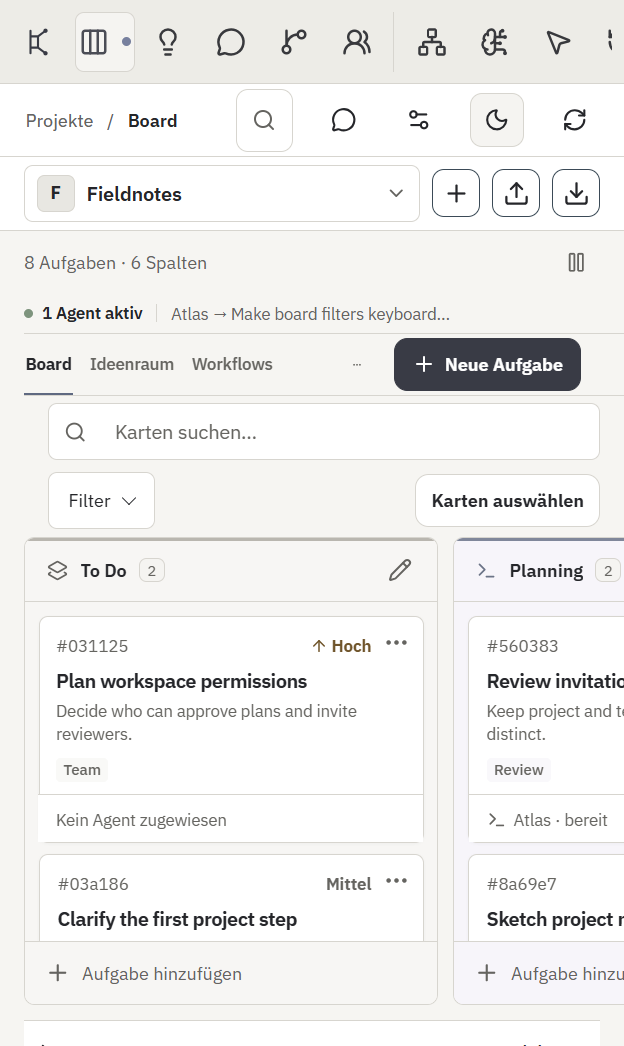
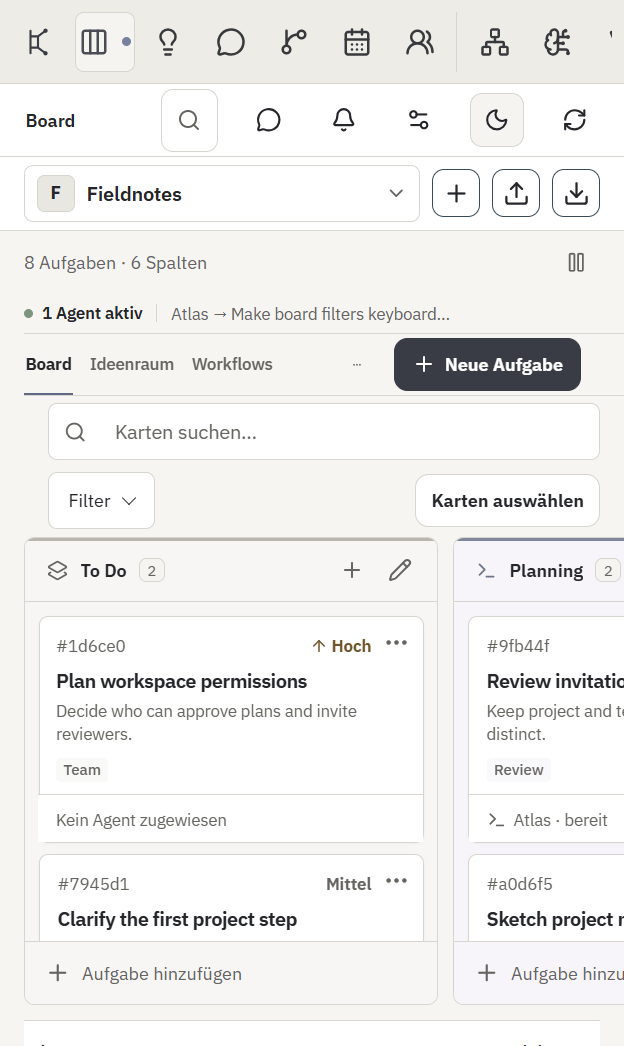
Polish project header and live board navigation

diff --git a/src/renderer/App.tsx b/src/renderer/App.tsx
@@ -357,6 +357,7 @@ export function App() {
   const activeView = views.find((item) => item.id === view)!;
   const ui = (key: LanguageKey) => languageText(language, key);
   const decisionStatus = decisionNavigationStatus(snapshot, projectId, decisionIndicator);
+  const currentProjectName = projectId ? projects.find((project) => project.id === projectId)?.name ?? ui('project') : null;
 
   return <div className="app-shell">
     <aside className="sidebar">
@@ -378,8 +379,8 @@ export function App() {
     </aside>
 
     <main className="main-area">
-      <header className={view === 'board' && projectId ? 'topbar topbar-board' : 'topbar'}>
-        <div className="topbar-title"><h1>{projectId && view === 'board' ? <><span>{ui('projects')}</span><span className="topbar-breadcrumb-divider" aria-hidden="true">/</span>Board</> : projectId ? viewName(view, language) : view === 'team' ? 'Team' : view === 'settings' ? ui('settings') : ui('start')}</h1></div>
+      <header className={projectId ? view === 'board' ? 'topbar topbar-board' : 'topbar topbar-context' : 'topbar'}>
+        <div className="topbar-title"><h1>{projectId && view === 'board' ? <><span>{ui('projects')}</span><span className="topbar-breadcrumb-divider" aria-hidden="true">/</span>Board</> : projectId ? <><span>{ui('projects')}</span><span className="topbar-breadcrumb-divider" aria-hidden="true">/</span><span className="topbar-project-name">{currentProjectName}</span></> : view === 'team' ? 'Team' : view === 'settings' ? ui('settings') : ui('start')}</h1></div>
         <div className="topbar-actions">
           {projectId ? <><div className={searchOpen ? 'topbar-search-slot is-open' : 'topbar-search-slot'}><button ref={searchButtonRef} className="search-trigger" type="button" title={`${ui('searchProject')} (Strg+K)`} aria-label={ui('searchProject')} aria-expanded={searchOpen} disabled={!snapshot || snapshot.project.id !== projectId} onClick={openSearch}><Search size={16} /><span>{ui('searchPlaceholder')}</span><kbd>Strg K</kbd></button>{searchOpen && snapshot?.project.id === projectId ? <SearchPalette snapshot={snapshot} onClose={closeSearch} onNavigate={navigateToResult} /> : null}</div>{view !== 'board' ? <button className="project-pause-button" type="button" aria-label={snapshot?.runPause.state === 'paused' ? ui('resumeProject') : snapshot?.runPause.state === 'requested' ? ui('pauseRequested') : ui('pauseProject')} disabled={!snapshot || snapshot.project.id !== projectId || snapshot.runPause.state === 'requested'} onClick={() => snapshot && void mutate(() => window.studio.setProjectRunPause({ projectId: snapshot.project.id, paused: snapshot.runPause.state === 'active' }))}>{snapshot?.runPause.state === 'paused' ? <Play size={15} aria-hidden="true" /> : <Pause size={15} aria-hidden="true" />}<span>{snapshot?.runPause.state === 'paused' ? ui('resumeProject') : snapshot?.runPause.state === 'requested' ? ui('pauseRequested') : ui('pauseProject')}</span></button> : null}<button className="icon-button" type="button" title={ui('projectConversation')} aria-label={ui('projectConversation')} aria-expanded={view === 'chat' || chatDockOpen} disabled={!snapshot || snapshot.project.id !== projectId} onClick={() => { if (view === 'chat') { setView('board'); setChatDockOpen(true); } else setChatDockOpen((open) => !open); }}><MessageCircle size={17} aria-hidden="true" /></button></> : null}
           <NotificationCenter language={language} onOpenItem={openGlobalItem} onOpenInbox={() => setView('decisions')} />

diff --git a/src/renderer/components/BoardView.tsx b/src/renderer/components/BoardView.tsx
@@ -329,7 +329,7 @@ export function BoardView({ snapshot, mutate, language = 'de', openCard, decisio
   return <div className="board-page">
     <div className="board-project-masthead">
       <div className="board-project-identity"><h2>{snapshot.project.name}</h2><span>{activeCardCount} {activeCardCount === 1 ? 'Aufgabe' : 'Aufgaben'} · {columns.length} {columns.length === 1 ? 'Spalte' : 'Spalten'}</span></div>
-      <button className="project-pause-button" type="button" aria-label={runPauseState === 'paused' ? 'Projekt fortsetzen' : runPauseState === 'requested' ? 'Anhalten angefordert' : 'Sicher anhalten'} disabled={runPauseState === 'requested'} onClick={() => void mutate(() => window.studio.setProjectRunPause({ projectId: snapshot.project.id, paused: runPauseState === 'active' }))}>{runPauseState === 'paused' ? <Play size={15} aria-hidden="true" /> : <Pause size={15} aria-hidden="true" />}<span>{runPauseState === 'paused' ? 'Projekt fortsetzen' : runPauseState === 'requested' ? 'Anhalten angefordert' : 'Sicher anhalten'}</span></button>
+      <button className="project-pause-button" type="button" aria-label={runPauseState === 'paused' ? 'Projekt fortsetzen' : runPauseState === 'requested' ? 'Anhalten angefordert' : 'Sicher anhalten'} title={runPauseState === 'paused' ? 'Projekt fortsetzen' : runPauseState === 'requested' ? 'Anhalten angefordert' : 'Sicher anhalten'} disabled={runPauseState === 'requested'} onClick={() => void mutate(() => window.studio.setProjectRunPause({ projectId: snapshot.project.id, paused: runPauseState === 'active' }))}>{runPauseState === 'paused' ? <Play size={15} aria-hidden="true" /> : <Pause size={15} aria-hidden="true" />}<span>{runPauseState === 'paused' ? 'Projekt fortsetzen' : runPauseState === 'requested' ? 'Anhalten angefordert' : 'Sicher anhalten'}</span></button>
     </div>
     {runningSessions.length > 0 || Boolean(decisionCount) ? <div className="board-live-strip" role="status">{runningSessions.length > 0 ? <><span className="board-live-summary"><i aria-hidden="true" />{runningSessions.length} {runningSessions.length === 1 ? 'Agent aktiv' : 'Agenten aktiv'}</span><span className="board-live-divider" aria-hidden="true" />{runningSessions.slice(0, 2).map((session) => { const card = snapshot.cards.find((item) => item.id === session.cardId); const agent = snapshot.agents.find((item) => item.id === session.agentId); return <button key={session.id} type="button" onClick={() => openBoardCard(session.cardId, true, session.id)} title={`${agent?.name ?? 'Agent'}: ${card?.title ?? 'Aufgabe'} öffnen`}>{agent?.name ?? 'Agent'} <span aria-hidden="true">→</span> {card?.title ?? 'Aufgabe'}</button>; })}{runningSessions.length > 2 ? <span>+{runningSessions.length - 2} weitere</span> : null}</> : null}{decisionCount ? <button className="board-decision-link" type="button" aria-label={openDecisionLabel} onClick={() => onNavigate?.('decisions')}><span className="board-decision-full">{openDecisionLabel}</span><span className="board-decision-short" aria-hidden="true">{decisionCount}{decisionHasMore ? '+' : ''} offen</span><ArrowRight size={13} aria-hidden="true" /></button> : null}</div> : null}
     <div className="board-toolbar board-header-actions">

diff --git a/src/renderer/navigation.css b/src/renderer/navigation.css
@@ -31,6 +31,13 @@
 .nav-other .nav-count { position: absolute; top: 2px; right: 4px; margin: 0; }
 .sidebar-status { flex: none; display: grid; gap: 3px; padding: 9px 5px 2px; border-top: 1px solid var(--border); color: var(--muted); font-size: 11px; line-height: 1.3; font-variant-numeric: tabular-nums; }
 .sidebar-status strong { color: var(--text); font-weight: 650; }
+.sidebar-status-summary { display: flex; align-items: center; flex-wrap: wrap; column-gap: 6px; min-width: 0; }
+.sidebar-sessions-link { display: inline-flex; align-items: center; gap: 3px; min-height: 22px; padding: 0; border: 0; background: transparent; color: var(--muted); font: inherit; white-space: nowrap; cursor: pointer; }
+.sidebar-sessions-link:hover { color: var(--text); text-decoration: underline; text-underline-offset: 2px; }
+.sidebar-sessions-link:focus-visible { outline: 2px solid var(--focus); outline-offset: 2px; border-radius: 2px; }
+.sidebar-status-live { flex: none; width: 6px; height: 6px; margin-right: 2px; border-radius: 50%; background: #7180a1; }
+:root[data-theme='dark'] .sidebar-status-live { background: #afc0e0; }
+.sidebar-status-separator { color: var(--border); }
 .sidebar-running-card { display: flex; align-items: center; gap: 4px; width: 100%; min-width: 0; padding: 2px 0; border: 0; background: transparent; color: var(--text); text-align: left; font: inherit; cursor: pointer; }
 .sidebar-running-card:hover { text-decoration: underline; }
 .sidebar-running-card:focus-visible { outline: 2px solid var(--focus); outline-offset: 2px; }
@@ -39,6 +46,10 @@
 .sidebar-running-title { flex: 1; }
 .topbar-title { display: flex; align-items: center; min-width: 0; }
 .topbar-title h1 { margin: 0; }
+:root[data-theme] .topbar-context { min-height: 46px; padding-block: 3px; }
+:root[data-theme] .topbar-context .topbar-title h1 { display: flex; align-items: center; gap: 9px; min-width: 0; font-size: 12px; font-weight: 600; letter-spacing: 0; }
+:root[data-theme] .topbar-context .topbar-title h1 > span:first-child { flex: none; color: var(--muted); font-weight: 450; }
+:root[data-theme] .topbar-context .topbar-project-name { overflow: hidden; text-overflow: ellipsis; white-space: nowrap; }
 
 @media (max-width: 900px) and (min-width: 601px) {
   .brand strong { display: block; }
@@ -57,4 +68,9 @@
   .side-nav .nav-item svg { flex: none; }
   .sidebar-status { display: none; }
   .topbar-title h1 { font-size: 17px; }
+  :root[data-theme] .topbar-context { min-height: 46px; justify-content: flex-end; padding-block: 3px; }
+  :root[data-theme] .topbar-context .topbar-title { position: absolute; width: 1px; height: 1px; overflow: hidden; clip-path: inset(50%); white-space: nowrap; }
+  :root[data-theme] .topbar-board .topbar-title h1 { gap: 0; white-space: nowrap; }
+  :root[data-theme] .topbar-board .topbar-title h1 > span:first-child,
+  :root[data-theme] .topbar-board .topbar-breadcrumb-divider { display: none; }
 }

diff --git a/src/renderer/components/WorkspaceNavigation.tsx b/src/renderer/components/WorkspaceNavigation.tsx
@@ -1,4 +1,4 @@
-import { Activity, Bot, BrainCircuit, CalendarDays, Columns3, GitBranch, GitCommitHorizontal, Globe2, History, Inbox, Lightbulb, MessageCircle, MousePointer2, Network, Settings2, TerminalSquare, UsersRound } from 'lucide-react';
+import { Activity, ArrowUpRight, Bot, BrainCircuit, CalendarDays, Columns3, GitBranch, GitCommitHorizontal, Globe2, History, Inbox, Lightbulb, MessageCircle, MousePointer2, Network, Settings2, TerminalSquare, UsersRound } from 'lucide-react';
 import type { ProjectSnapshot } from '../../shared/types';
 import type { LanguagePreference } from '../language';
 
@@ -90,8 +90,17 @@ export function WorkspaceNavigation({ activeView, language = 'de', decisionCount
         <div className="nav-other-items">{group.ids.map((id) => item(views.find((view) => view.id === id)!))}</div>
       </div>)}</div>
   </nav>{status ? <div className="sidebar-status" aria-label={language === 'en' ? 'Project status' : 'Projektstatus'}>
-    <span><strong>{status.runningSessions}</strong> {language === 'en' ? `active agent ${status.runningSessions === 1 ? 'run' : 'runs'}` : `${status.runningSessions === 1 ? 'Agentenlauf' : 'Agentenläufe'} aktiv`}</span>
+    <div className="sidebar-status-summary">
+      <button type="button" className="sidebar-sessions-link" onClick={() => onView('activity')}
+        aria-label={language === 'en' ? `Open agent sessions: ${status.runningSessions} active` : `Agentensitzungen öffnen: ${status.runningSessions} aktiv`}
+        title={language === 'en' ? 'Open agent sessions' : 'Agentensitzungen öffnen'}>
+        {status.runningSessions > 0 ? <span className="sidebar-status-live" aria-hidden="true" /> : null}
+        <strong>{status.runningSessions}</strong> {language === 'en' ? `active ${status.runningSessions === 1 ? 'run' : 'runs'}` : `${status.runningSessions === 1 ? 'Lauf' : 'Läufe'} aktiv`}
+        <ArrowUpRight size={12} aria-hidden="true" />
+      </button>
+      <span className="sidebar-status-separator" aria-hidden="true">·</span>
+      <span><strong>{status.activeCards}</strong> {language === 'en' ? `${status.activeCards === 1 ? 'card' : 'cards'}` : `${status.activeCards === 1 ? 'Karte' : 'Karten'}`}</span>
+    </div>
     {status.firstRunning && onOpenCard ? <button type="button" className="sidebar-running-card" onClick={() => onOpenCard(status.firstRunning!.cardId)} title={`${status.firstRunning.agentName}: ${status.firstRunning.cardTitle}`}><span className="sidebar-running-agent">{status.firstRunning.agentName}</span><span aria-hidden="true">→</span><span className="sidebar-running-title">{status.firstRunning.cardTitle}</span></button> : null}
-    <span><strong>{status.activeCards}</strong> {language === 'en' ? `active ${status.activeCards === 1 ? 'card' : 'cards'}` : `aktive ${status.activeCards === 1 ? 'Karte' : 'Karten'}`}</span>
   </div> : null}</>;
 }

diff --git a/tests/renderer/workspace-navigation-actions.test.tsx b/tests/renderer/workspace-navigation-actions.test.tsx
@@ -1,0 +1,30 @@
+// @vitest-environment jsdom
+import { act } from 'react';
+import { createRoot } from 'react-dom/client';
+import { afterEach, expect, it, vi } from 'vitest';
+import { WorkspaceNavigation } from '../../src/renderer/components/WorkspaceNavigation';
+
+afterEach(() => { document.body.replaceChildren(); });
+
+it('opens the session view from the factual lower-left count, even when no run is active', async () => {
+  (globalThis as typeof globalThis & { IS_REACT_ACT_ENVIRONMENT?: boolean }).IS_REACT_ACT_ENVIRONMENT = true;
+  const host = document.createElement('div');
+  document.body.append(host);
+  const root = createRoot(host);
+  const onView = vi.fn();
+  const onOpenCard = vi.fn();
+  try {
+    await act(async () => { root.render(<WorkspaceNavigation activeView="board" decisionCount={0} onView={onView} onOpenCard={onOpenCard} status={{ activeCards: 2, runningSessions: 0 }} />); });
+    expect(host.querySelector('.sidebar-status-live')).toBeNull();
+    await act(async () => { host.querySelector<HTMLButtonElement>('[aria-label="Agentensitzungen öffnen: 0 aktiv"]')!.click(); });
+    expect(onView).toHaveBeenCalledWith('activity');
+
+    await act(async () => { root.render(<WorkspaceNavigation activeView="board" decisionCount={0} onView={onView} onOpenCard={onOpenCard} status={{ activeCards: 2, runningSessions: 1, firstRunning: { cardId: 'c1', cardTitle: 'Synthetic task', agentName: 'Fixture agent' } }} />); });
+    expect(host.querySelector('.sidebar-status-live')).not.toBeNull();
+    await act(async () => { host.querySelector<HTMLButtonElement>('.sidebar-running-card')!.click(); });
+    expect(onOpenCard).toHaveBeenCalledWith('c1');
+    expect(host.textContent).not.toMatch(/\d+\s*%/);
+  } finally {
+    await act(async () => { root.unmount(); });
+  }
+});

diff --git a/src/main/smoke-team-workspace.ts b/src/main/smoke-team-workspace.ts
@@ -82,6 +82,18 @@ export async function runTeamWorkspaceVisibleSmoke(window: BrowserWindow, store:
         const cardTop = await window.webContents.executeJavaScript(`(() => document.querySelector('.board-card-wrap')?.getBoundingClientRect().top ?? Infinity)()`);
         if (cardTop >= 760) throw new Error('Board cards are below the first narrow viewport.');
         writeFileSync(narrowBoardScreenshot, (await window.capturePage()).toPNG());
+        const moreMenuFits = await window.webContents.executeJavaScript(`(() => {
+          const actions = document.querySelector('.board-more-tools');
+          if (!(actions instanceof HTMLDetailsElement)) return false;
+          actions.querySelector('summary')?.click();
+          const menu = actions.querySelector('.board-more-tools-content');
+          const rect = menu?.getBoundingClientRect();
+          const firstAction = menu?.querySelector('button');
+          const fits = actions.open && rect && rect.left >= 0 && rect.right <= window.innerWidth && firstAction instanceof HTMLButtonElement;
+          actions.querySelector('summary')?.click();
+          return Boolean(fits);
+        })()`);
+        if (!moreMenuFits) throw new Error('Board secondary actions overflow the narrow viewport.');
         if (notificationNarrowScreenshot) {
           await window.webContents.executeJavaScript(`(() => document.querySelector('.notification-trigger')?.click())()`);
           await window.webContents.executeJavaScript('new Promise((resolve) => requestAnimationFrame(() => requestAnimationFrame(resolve)))');

diff --git a/tests/renderer/language-settings.test.tsx b/tests/renderer/language-settings.test.tsx
@@ -30,7 +30,8 @@ describe('application language', () => {
       const navigation = renderToStaticMarkup(<WorkspaceNavigation activeView="board" language="en" decisionCount={2} onView={() => undefined} status={{ activeCards: 4, runningSessions: 1 }} />);
       expect(navigation).toContain('aria-label="Ideas"');
       expect(navigation).toContain('aria-label="Decisions: 2 open"');
-      expect(navigation).toContain('1</strong> active agent run');
+      expect(navigation).toContain('aria-label="Open agent sessions: 1 active"');
+      expect(navigation).toContain('1</strong> active run');
       expect(viewName('settings', 'en')).toBe('Settings');
       const switcher = renderToStaticMarkup(<ProjectSwitcher language="en" projects={[{ id: 'project', name: 'Fixture', path: '/fixture', createdAt: '' }]} projectId="project" organization={{ groups: [], assignments: {}, sort: 'name' }} onSelect={() => undefined} onOrganizationChange={() => undefined} onError={() => undefined} />);
       expect(switcher).toContain('aria-label="Select project: Fixture"');

diff --git a/tests/renderer/first-run.test.tsx b/tests/renderer/first-run.test.tsx
@@ -67,6 +67,10 @@ it('restores project actions after a saved project loads', async () => {
     expect(mount.querySelector('.project-actions summary')?.textContent).toContain('Projektaktionen');
     expect(mount.querySelector<HTMLSelectElement>('#project-select')?.value).toBe('synthetic-project');
     expect(mount.querySelector('.project-switcher-trigger')).toBeTruthy();
+    expect(mount.querySelector('.topbar-board .topbar-title h1')?.textContent).toBe('Projekte/Board');
+    await act(async () => { mount.querySelector<HTMLButtonElement>('.topbar-actions button[aria-label="Einstellungen"]')!.click(); });
+    expect(mount.querySelector('.topbar-context .topbar-title h1')?.textContent).toBe('Projekte/Synthetic project');
+    expect(mount.querySelector('.topbar-actions button[aria-label="Einstellungen"]')?.getAttribute('aria-current')).toBe('page');
   } finally {
     await act(async () => { root.unmount(); });
     if (previousApi) Object.defineProperty(window, 'studio', previousApi);

diff --git a/tests/renderer/workspace-navigation.test.tsx b/tests/renderer/workspace-navigation.test.tsx
@@ -46,8 +46,9 @@ describe('compact workspace navigation', () => {
     expect(status).toEqual({ activeCards: 1, runningSessions: 1 });
     const html = renderToStaticMarkup(createElement(WorkspaceNavigation, { activeView: 'board', decisionCount: 0, onView: () => undefined, status }));
     expect(html).toContain('aria-label="Projektstatus"');
-    expect(html).toContain('1</strong> Agentenlauf aktiv');
-    expect(html).toContain('1</strong> aktive Karte');
+    expect(html).toContain('aria-label="Agentensitzungen öffnen: 1 aktiv"');
+    expect(html).toContain('1</strong> Lauf aktiv');
+    expect(html).toContain('1</strong> Karte');
     expect(html).not.toContain('heute erledigt');
   });
 

diff --git a/src/renderer/signals.css b/src/renderer/signals.css
@@ -347,7 +347,7 @@
   :root[data-theme] .board-filters .board-search { grid-column: 1 / -1; width: 100%; min-width: 0; }
   :root[data-theme] .board-filter-count { grid-column: 2; margin: 0; }
   :root[data-theme] .board-selection-toggle { grid-column: 3; }
-  :root[data-theme] .board-more-tools-content { left: 0; right: auto; }
+  :root[data-theme] .board-more-tools-content { left: auto; right: 0; }
 }
 
 /* One project header, then work status and adjacent planning views. */
